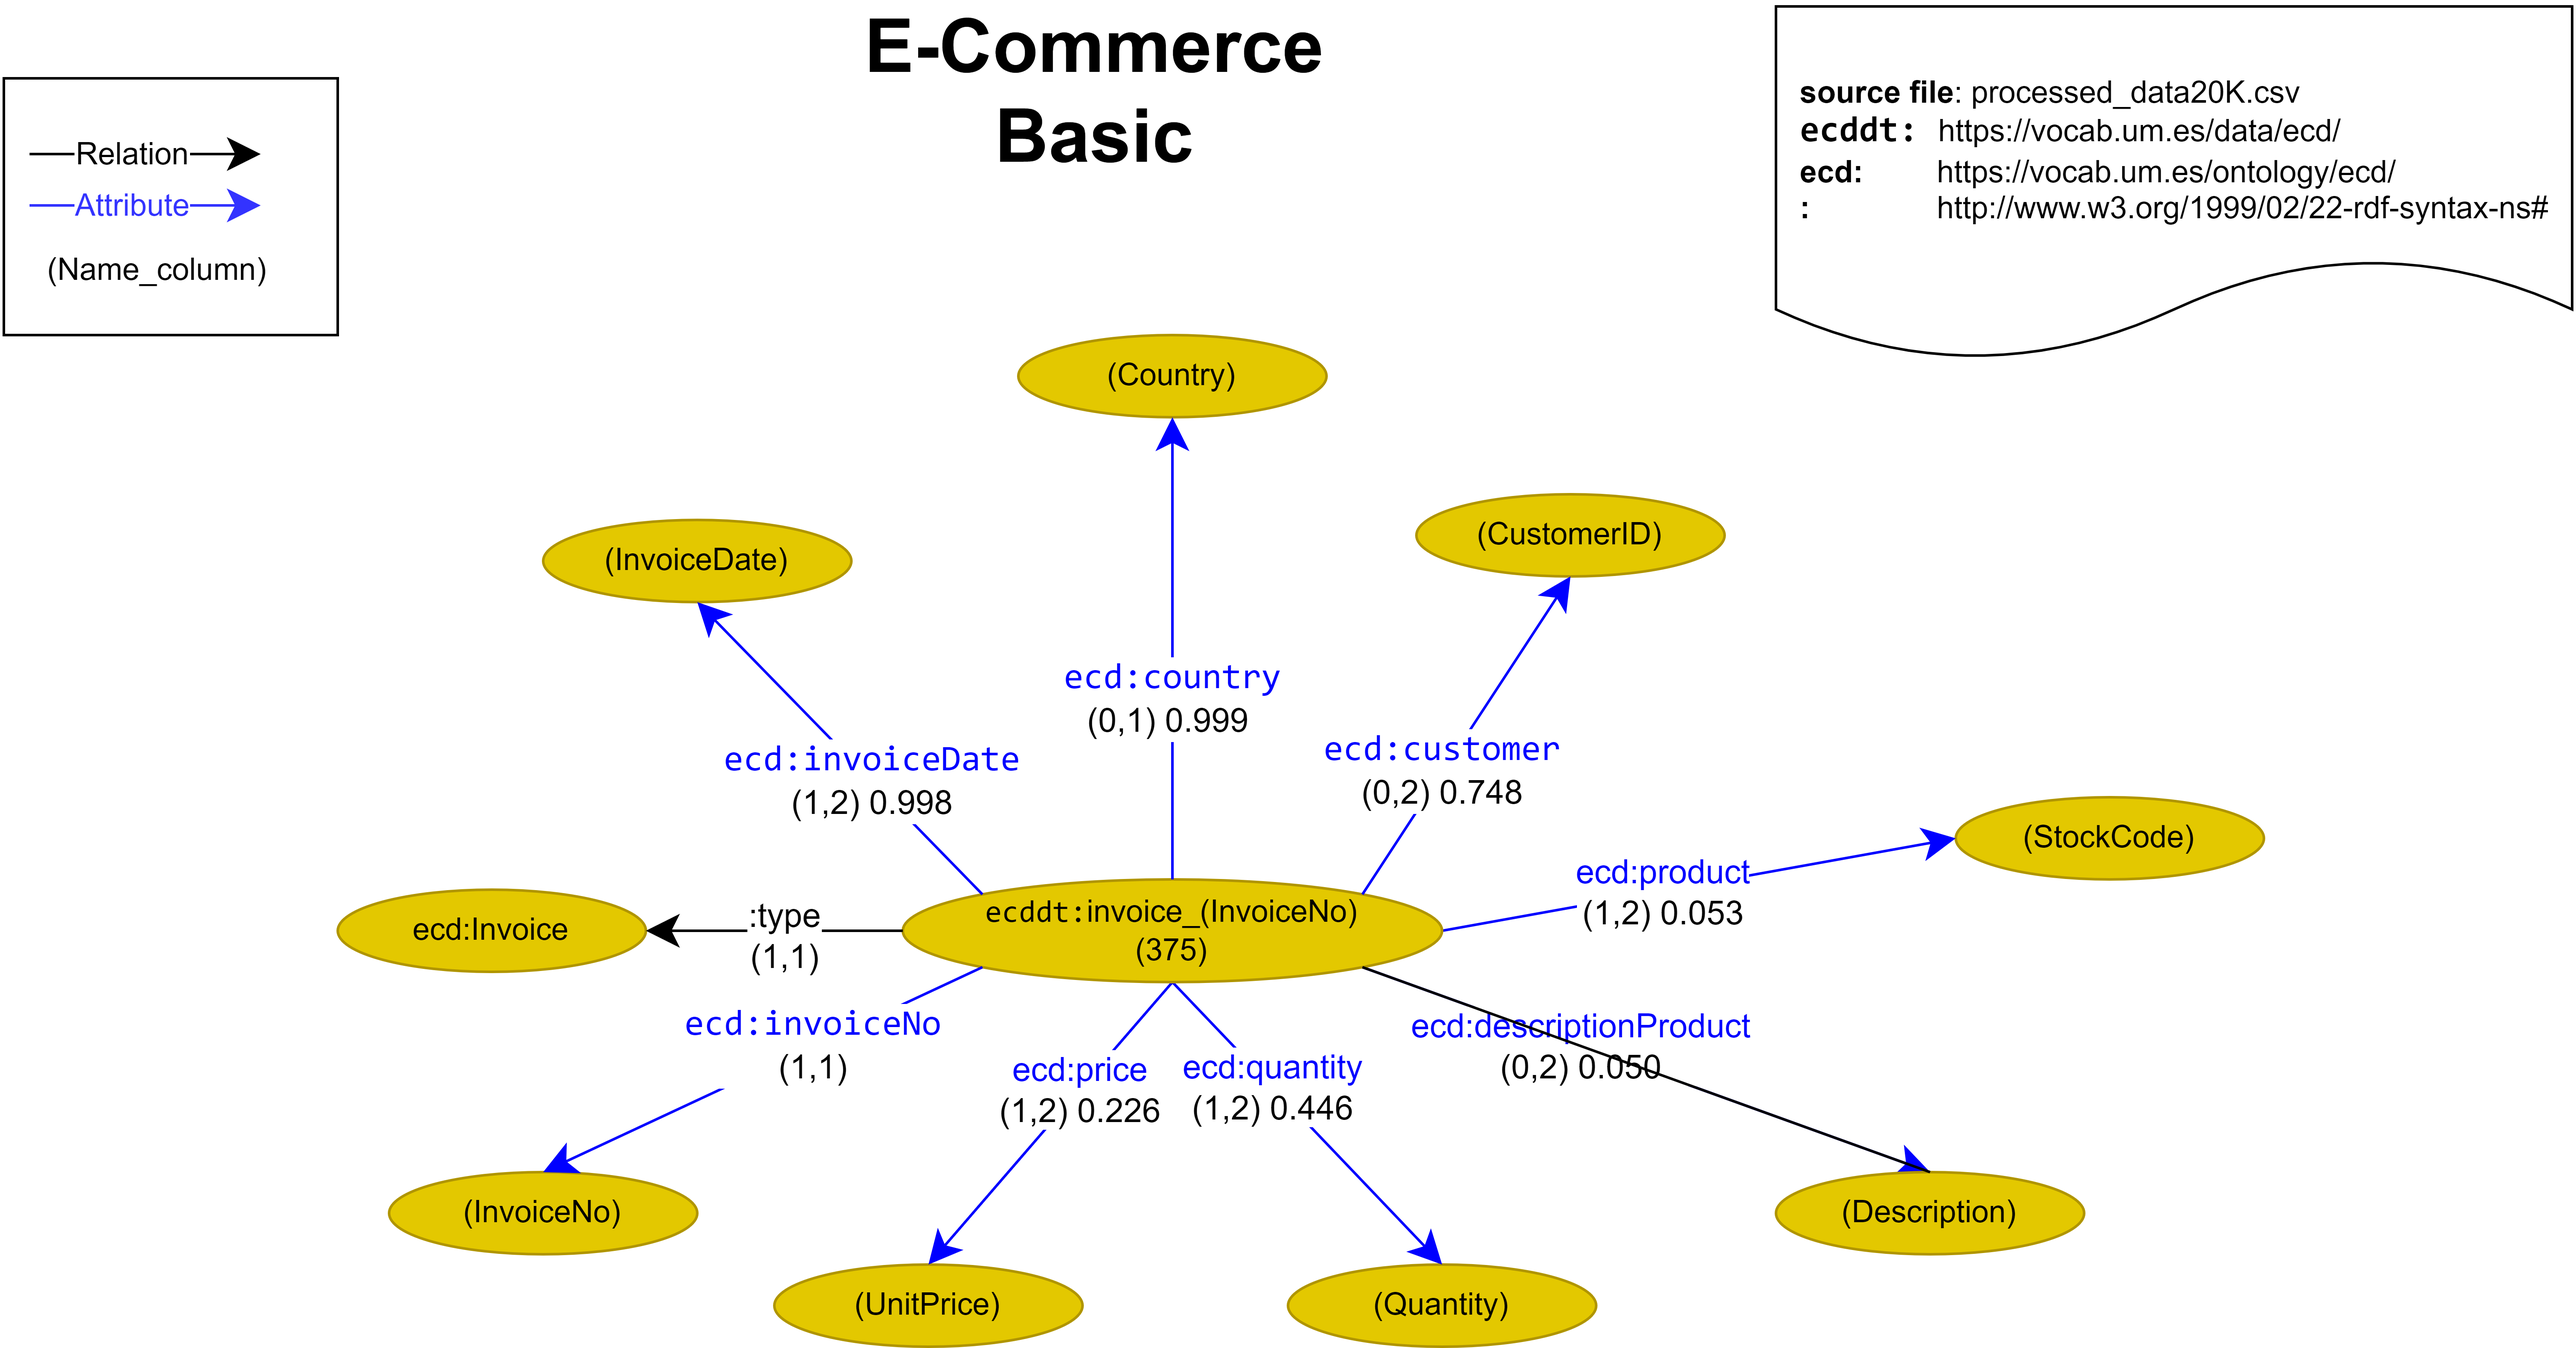
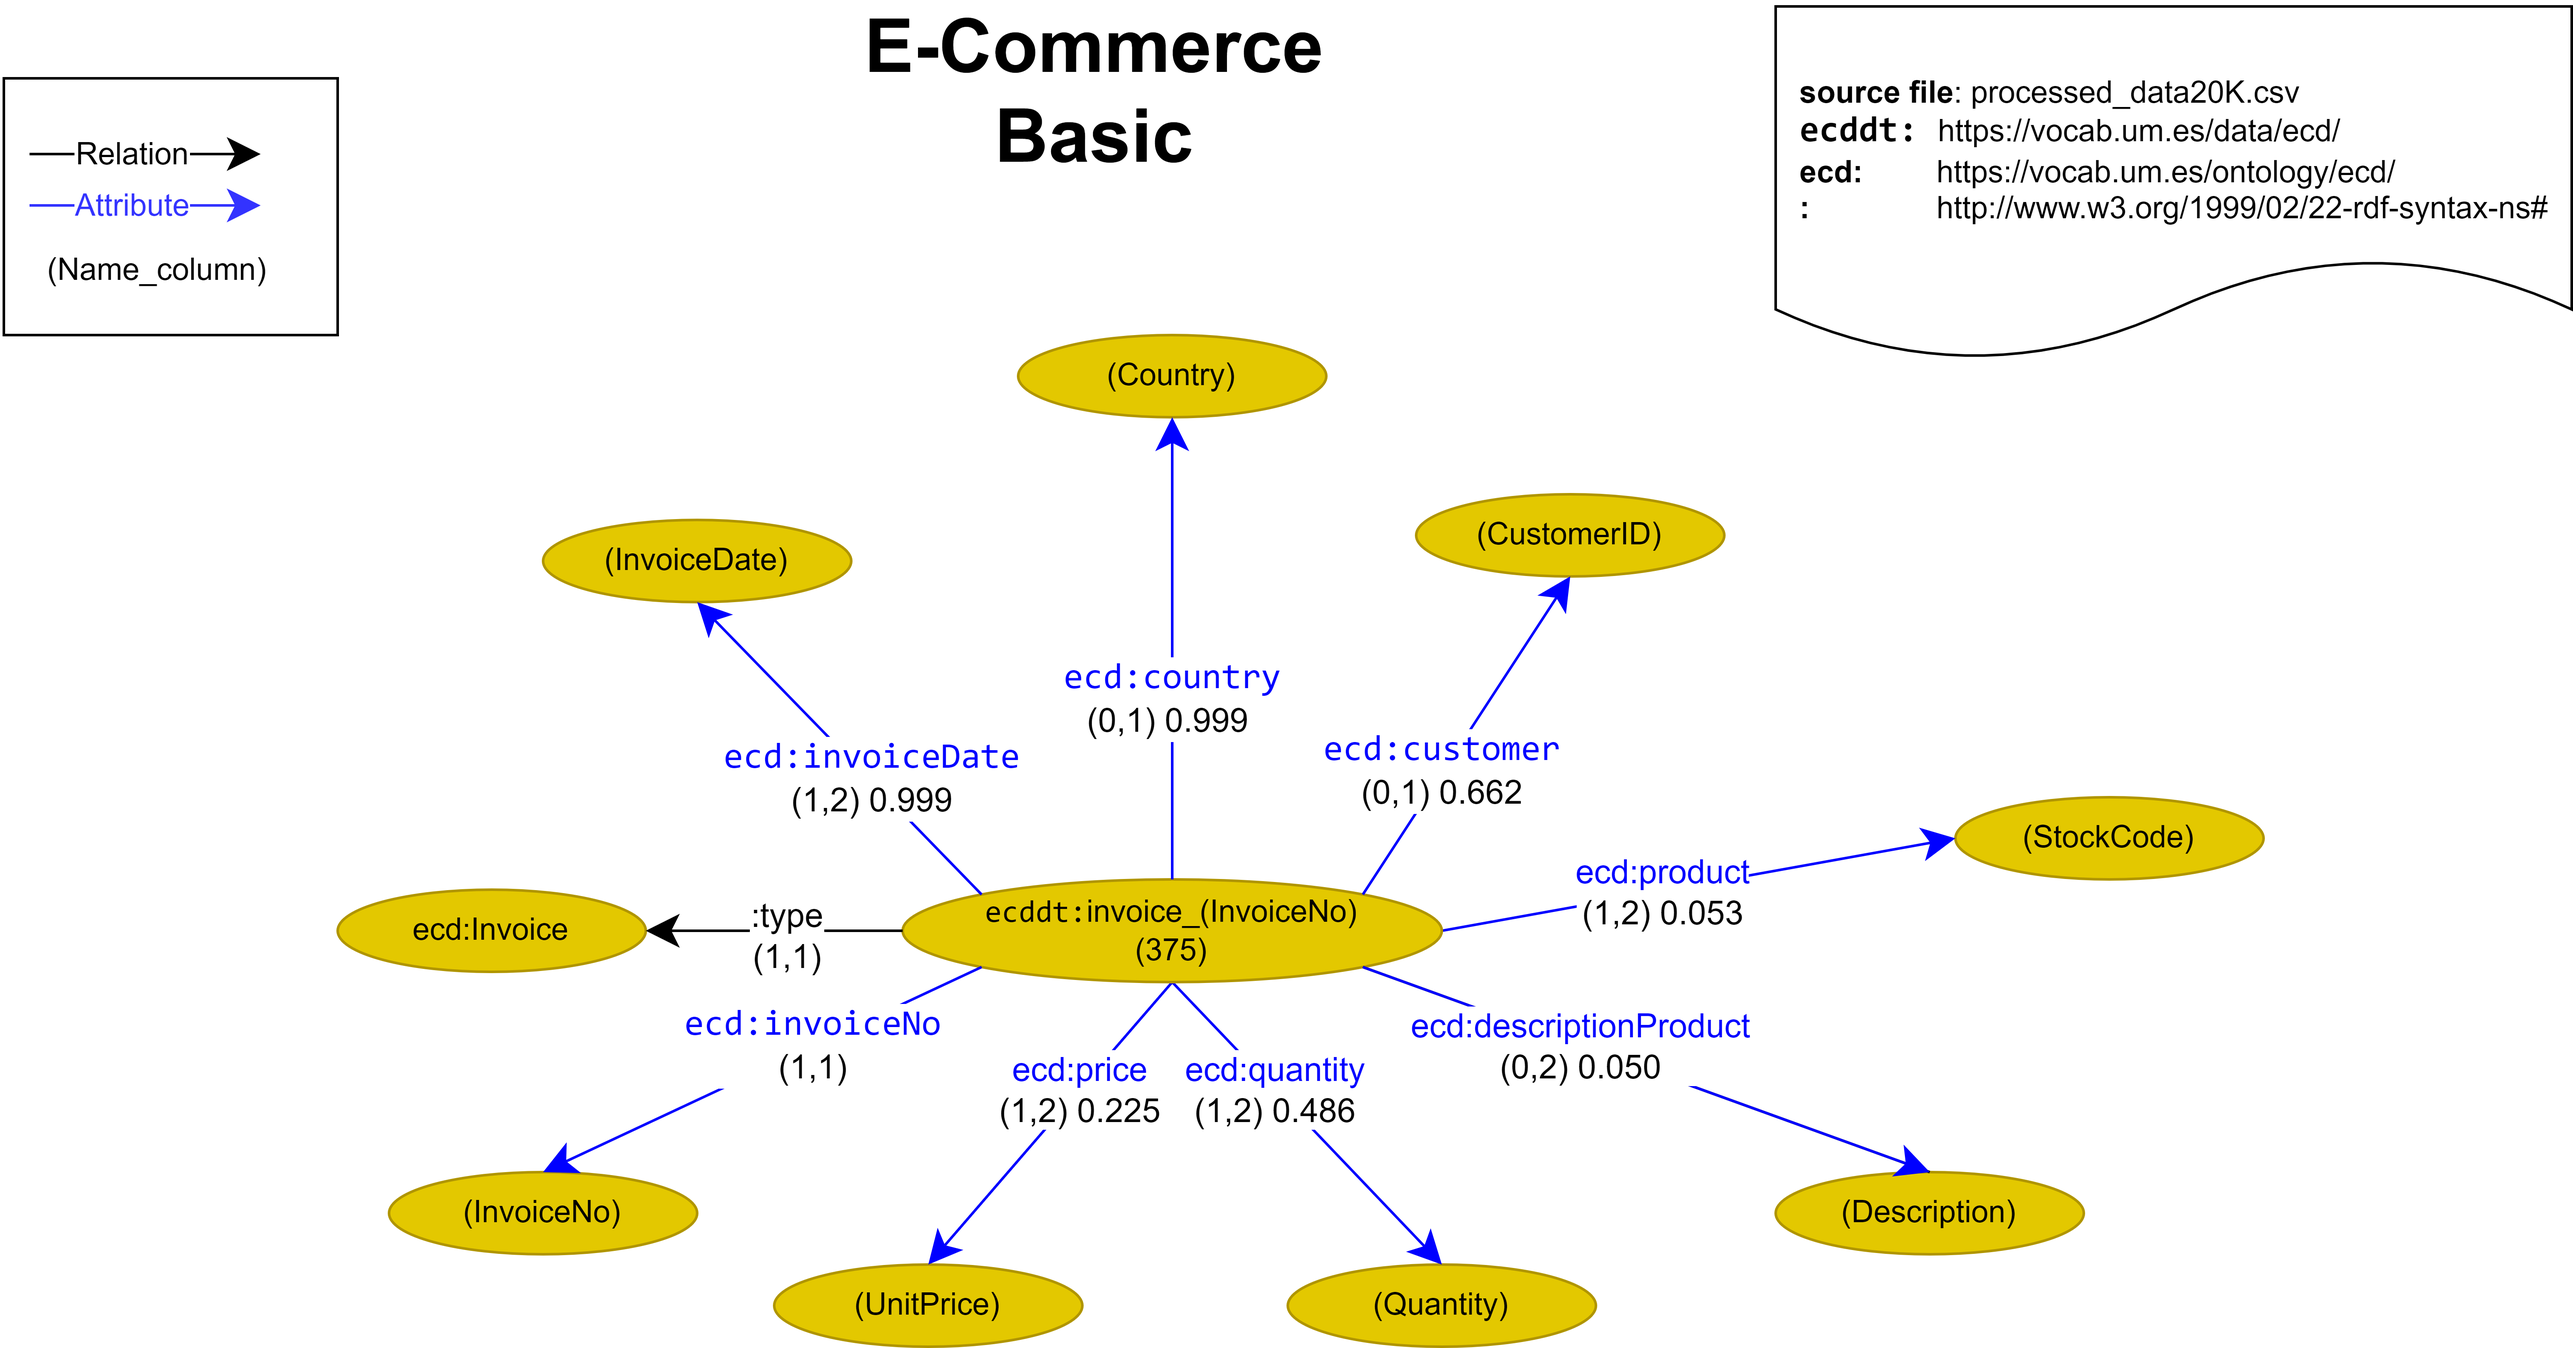
Update Ecommerce dataset

diff --git a/E-CommerceData/eCommerceData.md b/E-CommerceData/eCommerceData.md
@@ -63,7 +63,7 @@ Mapping of the classes, their relationships and attributes between the different
 
 ## [Gold - Gold](./Experiments/EntityAlignment/Gold-Gold/)
 
-High level graph generated for the Gold ontology. Nodes of the same color represent the instance, class type and attributes of the same class. The instance node indicates the number of entities in the test set. Blue arrows indicate attributes and black arrows indicate relationships. The cardinality is determined for each arrow. If it is not (1,1), the probability that it is (1,1) is indicated. The names in parentheses indicate the referenced column in the CSV source file.
+High level graph generated for the Gold ontology. Nodes of the same color represent the instance, class type and attributes of the same class. The instance node indicates the number of entities in the test set. Blue arrows indicate attributes and black arrows indicate relationships. The cardinality is determined for each arrow. If it is not (1,1), the probability that it was (1,1) is indicated. The names in parentheses indicate the referenced column in the CSV source file.
 
 ![Graph Gold](./Figures/eCommerceGraphs_Gold.png "Graph Gold")
 
@@ -115,7 +115,7 @@ High level graph generated for the Gold ontology. Nodes of the same color repres
 
 ## [Basic - Basic](./Experiments/EntityAlignment/Basic-Basic/)
 
-High level graph generated for the Gold ontology. Nodes of the same color represent the instance, class type and attributes of the same class. The instance node indicates the number of entities in the test set. Blue arrows indicate attributes and black arrows indicate relationships. The cardinality is determined for each arrow. If it is not (1,1), the probability that it is (1,1) is indicated. The names in parentheses indicate the referenced column in the CSV source file.
+High level graph generated for the Gold ontology. Nodes of the same color represent the instance, class type and attributes of the same class. The instance node indicates the number of entities in the test set. Blue arrows indicate attributes and black arrows indicate relationships. The cardinality is determined for each arrow. If it is not (1,1), the probability that it was (1,1) is indicated. The names in parentheses indicate the referenced column in the CSV source file.
 
 ![Graph Basic](./Figures/eCommerceGraphs_Basic.png "Graph Basic")
 
@@ -162,7 +162,9 @@ High level graph generated for the Gold ontology. Nodes of the same color repres
 
 ## [LLM - LLM](./Experiments/EntityAlignment/LLM-LLM/)
 
-![Graph LLM](./Figures/eCommerce-LLM.png "Graph LLM")
+High level graph generated for the Gold ontology. Nodes of the same color represent the instance, class type and attributes of the same class. The instance node indicates the number of entities in the test set. Blue arrows indicate attributes and black arrows indicate relationships. The cardinality is determined for each arrow. If it is not (1,1), the probability that it was (1,1) is indicated. The names in parentheses indicate the referenced column in the CSV source file.
+
+![Graph LLM](./Figures/eCommerceGraphs_LLM.png "Graph LLM")
 
 ### [Input](./Experiments/EntityAlignment/LLM-LLM/Input/)
 
